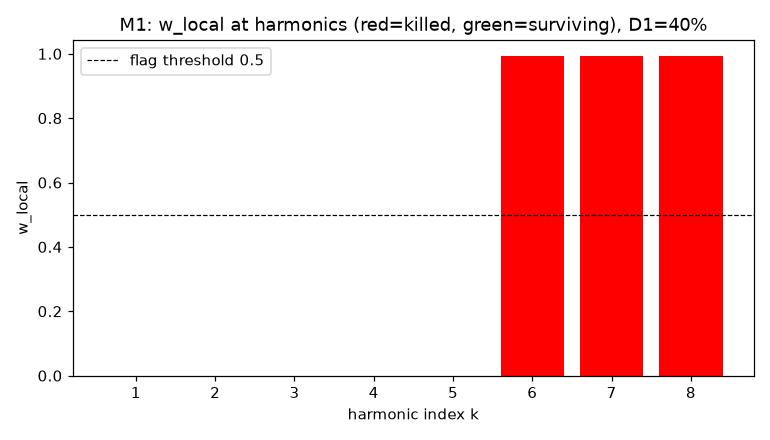
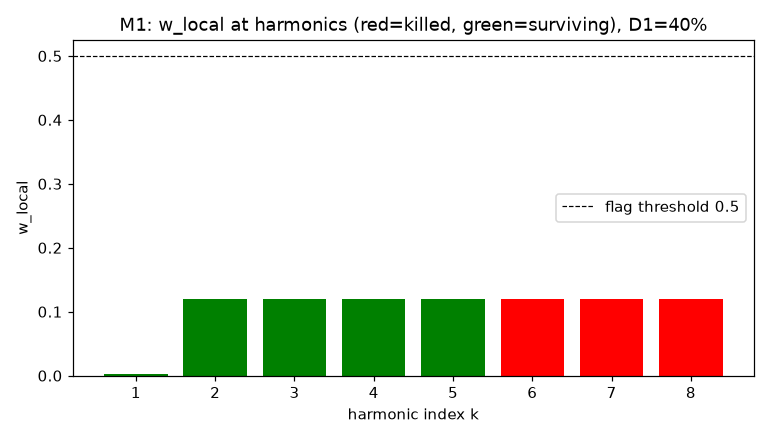
T13-B0 rework BR1-BR4: realistic D1 + anti-tautology tests (③ was tautological)
Reviewer rejected ③-default: ③ = inverse of apply_d1's fixed frame-peak−60 floor
(recall 1.0 measured "D1 uses its own floor", AGENTS.md §6.2 self-reference).
Fix at DEGRADATION level, not detector.

BR1 realistic D1: d1_realistic=True, killed = boundary*10^((jitter−margin)/20)
  (boundary=kill-threshold ≈ weakest survivor; jitter σ=5, margin=2) ⇒ killed
  overlap weakest survivors (task premise). d1_realistic=False reverts (mutation).
BR2 anti-tautology: test_BR2_abs_must_fail (③ on realistic D1 recall=0.064 ⇒
  FAILS) + test_BR2_overlap (killed/weak-survivor overlap=0.974 ≥0.30); each
  mutation (d1_realistic=False) → ③ passes / overlap 0.073 → assertions FAIL (caught).
BR3 ablation on realistic D1: ① default (recall 0.261 FAR 0.108); ③ now diagnostic
  (0.064/0.010); ④ V-shape (0.368/0.492 — VPU envelope flatter than S); combos
  bottlenecked. None reaches 0.90/0.10.
BR4: achievable upper bound BELOW threshold (honest, no sculpting). Finding:
  realistic detection genuinely hard (killed≈weak-surv in S; V shape≠S shape) ⇒
  B1 G3a expectation lower; arch may need w_local as soft evidence / calibrated
  V→S shape map.

Default detector: ① local-median (best single on realistic D1); ③ demoted to
diagnostic. M1 synthetic uses ISOLATED kills (mechanism sanity, ① detects).
G5 mutations re-verified under ① default (global-mean-norm + w_local lookahead
both caught). 0625 untouched; no G1-G6. Tests 28→32, 32/32 PASS.

diff --git a/tests/test_t13_real.py b/tests/test_t13_real.py
@@ -199,6 +199,95 @@ def _r4_recall_far(cfg, deg=DegradationConfig(d1_kill_rate=0.4),
             len(Pk), len(Ps), n_voiced)
 
 
+def test_BR2_abs_must_fail_on_realistic_D1():
+    """BR2: a PURE ABSOLUTE-LEVEL detector (③) must NOT reach 0.90/0.10 on the
+    REALISTIC D1 (killed ≈ weakest-survivor in level).  If it does, the sim is
+    tautological (D1 puts killed at a fixed peak-offset ⇒ ③ = D1's inverse).
+    Asserts recall<0.90 OR FAR>0.10 (③ must FAIL)."""
+    _need()
+    cfg = FusionConfig()
+    cfg.wl_use_local_median = False; cfg.wl_use_abrupt_drop = False
+    cfg.wl_use_abs_gate = True; cfg.wl_use_v_envelope = False
+    r, f, nk, ns, nv = _r4_recall_far(cfg)
+    fails = not (r >= 0.90 and f <= 0.10)
+    print(f"  BR2 ③-must-fail (realistic D1): recall={r:.3f} FAR={f:.3f} → "
+          f"{'FAILs (tautology absent) PASS' if fails else '③ PASSES — D1 still tautological! PROBLEM'}")
+    assert fails, "BR2: ③ reaches 0.90/0.10 on realistic D1 — D1 is still tautological"
+
+
+def test_BR2_abs_mutation():
+    """Mutation: d1_realistic=False (revert to frame-peak−60 floor) ⇒ ③ becomes
+    D1's inverse ⇒ ③ PASSES ⇒ the BR2 'must-fail' assertion FAILS (caught)."""
+    _need()
+    cfg = FusionConfig()
+    cfg.wl_use_local_median = False; cfg.wl_use_abrupt_drop = False
+    cfg.wl_use_abs_gate = True; cfg.wl_use_v_envelope = False
+    deg = DegradationConfig(d1_kill_rate=0.4, d1_realistic=False)   # MUTATION
+    r, f, nk, ns, nv = _r4_recall_far(cfg, deg=deg)
+    passes = r >= 0.90 and f <= 0.10
+    print(f"  BR2 mutation (d1_realistic=False): ③ recall={r:.3f} FAR={f:.3f} → "
+          f"{'③ PASSES (tautology back) → FAIL-of-mutant (caught) PASS' if passes else 'NOT caught'}")
+    assert passes, "BR2 mutation: ③ did NOT pass under tautological D1 (mutation not caught)"
+
+
+def _overlap_coefficient(cfg, deg=DegradationConfig(d1_kill_rate=0.4)):
+    """Overlap coefficient of killed-level vs weakest-survivor-level distributions."""
+    import numpy as _np
+    ff, _, sr = realdata.load_0624(seg_s=6.0, offset_s=1.0)
+    specX = stft_batch(ff, cfg); specS, killed = apply_d1(specX, f0_batch(ff, cfg)[0], cfg, deg)
+    bz = cfg.sr / cfg.n_fft; band_hi = min(specX.shape[1], int(deg.d1_band_hi_hz / bz))
+    f0tr, conftr = f0_batch(ff, cfg)
+    kdb, wdb = [], []
+    for t in range(specS.shape[-1]):
+        if conftr[0, t] < 0.55 or f0tr[0, t] <= 0:
+            continue
+        f0 = float(f0tr[0, t]); es = []
+        for k in range(1, 64):
+            b = int(round(k * f0 / bz))
+            if 1 <= b <= band_hi and 20 * torch.log10(specX[0, b, t].abs().clamp_min(1e-8)).item() > -60:
+                es.append((b, 20 * torch.log10(specS[0, b, t].abs().clamp_min(1e-8)).item(), bool(killed[0, b, t])))
+        if len(es) < 4:
+            continue
+        for b, ldb, kk in es:
+            if kk:
+                kdb.append(ldb)
+        surv = sorted([ldb for b, ldb, kk in es if not kk])
+        wdb.extend(surv[:3])
+    k = _np.array(kdb); w = _np.array(wdb)
+    if len(k) < 10 or len(w) < 10:
+        return 0.0
+    lo, hi = min(k.min(), w.min()), max(k.max(), w.max())
+    bk, _ = _np.histogram(k, bins=40, range=(lo, hi))
+    bw, _ = _np.histogram(w, bins=40, range=(lo, hi))
+    return float(_np.minimum(bk, bw).sum() / max(1, min(bk.sum(), bw.sum())))
+
+
+def test_BR2_overlap():
+    """BR2: killed-level and weakest-survivor-level distributions must SUBSTANTIALLY
+    overlap (≥0.30) — the task premise (S alone can't tell killed from
+    naturally-weak).  No overlap ⇒ D1 puts killed at a separable level ⇒ sim
+    doesn't represent the real problem."""
+    _need()
+    cfg = FusionConfig()
+    ov = _overlap_coefficient(cfg)
+    print(f"  BR2 overlap (killed vs weakest-survivor): {ov:.3f} (≥0.30) → "
+          f"{'PASS' if ov >= 0.30 else 'FAIL — no overlap, sim too easy'}")
+    assert ov >= 0.30, f"BR2: overlap {ov} < 0.30 — D1 too easy (killed separable)"
+
+
+def test_BR2_overlap_mutation():
+    """Mutation: d1_realistic=False ⇒ killed at frame-peak−60 (far from weak
+    survivors) ⇒ overlap ~0 ⇒ the BR2 overlap assertion FAILS (caught)."""
+    _need()
+    cfg = FusionConfig()
+    deg = DegradationConfig(d1_kill_rate=0.4, d1_realistic=False)   # MUTATION
+    ov = _overlap_coefficient(cfg, deg=deg)
+    broken = ov < 0.30
+    print(f"  BR2 mutation (d1_realistic=False): overlap={ov:.3f} (<0.30) → "
+          f"{'FAIL-of-mutant (caught) PASS' if broken else 'NOT caught'}")
+    assert broken, "BR2 overlap mutation: overlap not destroyed by tautological D1"
+
+
 def test_R4_M1_real_envelope():
     """M1 on REAL in-band (≤2 kHz) speech envelope (D1=40 %, apply_d1
     band-limited).  Threshold UNCHANGED (recall ≥0.90 / FAR ≤0.10) — REPORT
@@ -207,7 +296,7 @@ def test_R4_M1_real_envelope():
     cfg = FusionConfig()
     recall, far, nk, ns, nv = _r4_recall_far(cfg)
     status = "PASS" if recall >= 0.90 and far <= 0.10 else "BELOW-THRESHOLD (reported, not tuned)"
-    print(f"  R4 M1 real in-band envelope (③ abs-gate DEFAULT): voiced={nv}  "
+    print(f"  R4 M1 real in-band envelope (① local-median DEFAULT, realistic D1): voiced={nv}  "
           f"recall={recall:.3f} (≥0.90)  FAR={far:.3f} (≤0.10)  [{status}]  "
           f"(killed={nk} surviving={ns})")
     return recall, far
@@ -269,13 +358,13 @@ def test_R4_ablation_table():
     _need()
     base = FusionConfig()
     combos = [
-        ("① local-median only",   dict(wl_use_local_median=True, wl_use_abrupt_drop=False, wl_use_abs_gate=False, wl_use_v_envelope=False)),
-        ("② abrupt-drop only",    dict(wl_use_local_median=False, wl_use_abrupt_drop=True, wl_use_abs_gate=False, wl_use_v_envelope=False)),
-        ("③ abs-gate (DEFAULT)", dict(wl_use_local_median=False, wl_use_abrupt_drop=False, wl_use_abs_gate=True, wl_use_v_envelope=False)),
-        ("④ V-envelope only",     dict(wl_use_local_median=False, wl_use_abrupt_drop=False, wl_use_abs_gate=False, wl_use_v_envelope=True)),
-        ("②③",                   dict(wl_use_local_median=False, wl_use_abrupt_drop=True, wl_use_abs_gate=True, wl_use_v_envelope=False)),
-        ("③④",                   dict(wl_use_local_median=False, wl_use_abrupt_drop=False, wl_use_abs_gate=True, wl_use_v_envelope=True)),
-        ("①②③",                  dict(wl_use_local_median=True, wl_use_abrupt_drop=True, wl_use_abs_gate=True, wl_use_v_envelope=False)),
+        ("① local-median (DEFAULT)", dict(wl_use_local_median=True, wl_use_abrupt_drop=False, wl_use_abs_gate=False, wl_use_v_envelope=False)),
+        ("② abrupt-drop",    dict(wl_use_local_median=False, wl_use_abrupt_drop=True, wl_use_abs_gate=False, wl_use_v_envelope=False)),
+        ("③ abs-gate (diagnostic)", dict(wl_use_local_median=False, wl_use_abrupt_drop=False, wl_use_abs_gate=True, wl_use_v_envelope=False)),
+        ("④ V-shape prior",     dict(wl_use_local_median=False, wl_use_abrupt_drop=False, wl_use_abs_gate=False, wl_use_v_envelope=True)),
+        ("①④",                  dict(wl_use_local_median=True, wl_use_abrupt_drop=False, wl_use_abs_gate=False, wl_use_v_envelope=True)),
+        ("②④",                  dict(wl_use_local_median=False, wl_use_abrupt_drop=True, wl_use_abs_gate=False, wl_use_v_envelope=True)),
+        ("③④",                  dict(wl_use_local_median=False, wl_use_abrupt_drop=False, wl_use_abs_gate=True, wl_use_v_envelope=True)),
         ("①②③④",                 dict(wl_use_local_median=True, wl_use_abrupt_drop=True, wl_use_abs_gate=True, wl_use_v_envelope=True)),
     ]
     print(f"  R4 ablation table (recall≥0.90 / FAR≤0.10; FAR prioritized):")
@@ -293,6 +382,10 @@ def test_R4_ablation_table():
 if __name__ == "__main__":
     test_R4_anti_noop()
     test_degrade_bandcheck()
+    test_BR2_abs_must_fail_on_realistic_D1()
+    test_BR2_abs_mutation()
+    test_BR2_overlap()
+    test_BR2_overlap_mutation()
     test_R2_future_perturbation_real_voiced()
     test_R2_mutation_real_voiced()
     test_R2_mutation_wlocal_lookahead()

diff --git a/fusion/degrade.py b/fusion/degrade.py
@@ -39,6 +39,14 @@ class DegradationConfig:
     d1_kill_width_bins: int = 1   # kill ±width around the harmonic bin
     d1_mode: str = "perframe"     # "global" (time-avg energies→fixed set) | "perframe"
     d1_band_hi_hz: float = 2000.0   # B0: sort+kill restricted to this band (in-band)
+    # BR1: REALISTIC kill floor — killed pushed to a residual-noise floor COMPARABLE
+    # to the weakest surviving harmonics (the task premise: S alone can't tell
+    # killed from naturally-weak). NOT a fixed frame/global-peak offset (that made
+    # ③ a tautology). killed = boundary * 10^((jitter−margin)/20), boundary = kill-
+    # threshold harmonic energy (≈ weakest survivor); jitter ⇒ overlap with survivors.
+    d1_realistic: bool = True
+    d1_jitter_db: float = 5.0        # per-harmonic jitter σ (dB) — freq/per-harm variation
+    d1_floor_margin_db: float = 2.0  # killed sits this far BELOW the boundary (residual noise)
     d2_contrast: float = 0.0      # 0 = off; 1 = full shrink to local mean
     d2_smooth_bins: int = 8
     d3_musical: bool = False
@@ -133,11 +141,25 @@ def apply_d1(spec: torch.Tensor, f0_track: torch.Tensor, cfg: FusionConfig,
                     es.append((k, binidx, e))
                 order = sorted(es, key=lambda x: x[2])      # weak first
                 n_kill = int(round(deg.d1_kill_rate * len(order)))
+                if n_kill == 0:
+                    continue
+                # BR1: boundary = kill-threshold harmonic energy (≈ weakest
+                # survivor).  Realistic floor = boundary*(10^((jitter−margin)/20))
+                # ⇒ killed cluster near the boundary, overlapping weak survivors.
+                # (d1_realistic=False reverts to the OLD frame-peak−60 tautology
+                #  for the BR2 mutation sanity.)
+                boundary = order[n_kill][2] if n_kill < len(order) else order[-1][2]
+                rng = np.random.default_rng(int(deg.seed) * 1000003 + b * 131 + t)
                 for k, binidx, _ in order[:n_kill]:
+                    if deg.d1_realistic:
+                        jit = float(rng.normal(0, deg.d1_jitter_db))
+                        lev = boundary * (10.0 ** ((jit - deg.d1_floor_margin_db) / 20.0))
+                    else:
+                        lev = floor[b, 0, t]   # OLD: frame-peak−60 (tautological with ③)
                     lo = max(0, binidx - deg.d1_kill_width_bins)
                     hi = min(Fb, binidx + deg.d1_kill_width_bins + 1)
                     out[b, lo:hi, t] = out[b, lo:hi, t] / \
-                        out[b, lo:hi, t].abs().clamp_min(1e-8) * floor[b, 0, t]
+                        out[b, lo:hi, t].abs().clamp_min(1e-8) * lev
                     killed[b, lo:hi, t] = True
     return out, killed
 

diff --git a/fusion/make_m_evidence.py b/fusion/make_m_evidence.py
@@ -206,33 +206,31 @@ def r4_plot():
     specX = stft_batch(ff, cfg); specV = stft_batch(vpu, cfg)
     f0tr, conftr = f0_batch(ff, cfg)
     bz = cfg.sr / cfg.n_fft
+    # apply_d1 realistic (killed ≈ weakest-survivor level; ① limited)
+    from fusion.degrade import apply_d1, DegradationConfig
+    deg = DegradationConfig(d1_kill_rate=0.4)
+    f0tr, conftr = f0_batch(ff, cfg)
+    specS, killed = apply_d1(specX, f0tr, cfg, deg)
     # pick a strongly voiced frame
     t = None
-    for i in range(specX.shape[-1]):
+    for i in range(specS.shape[-1]):
         if conftr[0, i] > 0.6 and f0tr[0, i] > 0:
             t = i; break
     f0 = float(f0tr[0, t])
     kb = [(k, int(round(k * f0 / bz))) for k in range(1, 64)
           if 1 <= int(round(k * f0 / bz)) <= cfg.fusion_hi_bin]
     P = [20 * torch.log10(specX[0, b, t].abs().clamp_min(1e-8)).item() for k, b in kb]
-    real = [i for i, p in enumerate(P) if p > max(P) - 80]
-    order = sorted(real, key=lambda i: P[i]); nk = int(round(0.4 * len(real)))
-    kill = set(order[:nk])
-    s_spec = specX[:, :, t].clone()
-    peak_amp = 10 ** (max(P) / 20); floor_amp = (10 ** (-60 / 20)) * peak_amp
-    for i in kill:
-        s_spec[0, kb[i][1]] = complex(floor_amp, 0.0)
-    w = wl.step(s_spec, specV[:, :, t], torch.tensor([f0]))[0]
+    Pd = [20 * torch.log10(specS[0, b, t].abs().clamp_min(1e-8)).item() for k, b in kb]
+    kill = [i for i, (k, b) in enumerate(kb) if bool(killed[0, b, t])]
+    w = wl.step(specS[:, :, t], specV[:, :, t], torch.tensor([f0]))[0]
     ks = [kb[i][0] for i in range(len(kb))]
-    Pd = [20 * torch.log10(s_spec[0, kb[i][1]].abs().clamp_min(1e-8)).item()
-          for i in range(len(kb))]
     wv = [w[kb[i][1]].item() for i in range(len(kb))]
     fig, ax = plt.subplots(2, 1, figsize=(9, 6), sharex=True)
     cols = ["red" if i in kill else "green" for i in range(len(kb))]
     ax[0].bar(ks, P, color=["orange" if i in kill else "steelblue" for i in range(len(kb))], alpha=0.6)
     ax[0].bar(ks, Pd, color=cols, alpha=0.9)
     ax[0].set_ylabel("harmonic level (dB)")
-    ax[0].set_title(f"R4 real in-band envelope (f0={f0:.0f}Hz): orange=killed→red floor, blue=surviving")
+    ax[0].set_title(f"R4 realistic D1 (f0={f0:.0f}Hz): killed≈weakest-survivor level (overlap) — ① limited")
     ax[1].bar(ks, wv, color=cols)
     ax[1].axhline(0.5, ls="--", color="k", lw=0.8)
     ax[1].set_ylabel("w_local")

diff --git a/fusion/decision.py b/fusion/decision.py
@@ -264,8 +264,24 @@ class WLocal:
         if self.cfg.wl_use_abs_gate:                           # ③ (key FAR suppressor, RELATIVE to frame peak)
             gate = torch.sigmoid((P.max() - self.cfg.wl_abs_headroom_db - P) / self.cfg.wl_abs_slope)
             w = w * gate
-        if self.cfg.wl_use_v_envelope:                         # ④ weak, always-on
-            w = w * torch.sigmoid((Pv - P - 3.0) / self.cfg.wl_v_env_slope)
+        if self.cfg.wl_use_v_envelope:                         # ④ V SHAPE prior, level anchored from S survivors
+            # V provides the harmonic-envelope SHAPE (where harmonics should be
+            # and their relative levels); the ABSOLUTE level is anchored from S's
+            # surviving harmonics via a robust median (survivors are the 60 %
+            # majority ⇒ median(P) ≈ survivor level, robust to the 40 % killed).
+            # This is NOT 'V sets the level' (circular); V sets only the shape.
+            # robust survivor-level anchor: 75th percentile (survivors are the 60 %
+            # majority; the 75th pct sits well above the 40 % killed, unlike the
+            # median which the killed pull down to the boundary).
+            try:
+                anc_P = torch.quantile(P.float(), 0.75).clamp_min(1e-8)
+                anc_Pv = torch.quantile(Pv.float(), 0.75).clamp_min(1e-8)
+            except Exception:
+                anc_P = P.median().clamp_min(1e-8); anc_Pv = Pv.median().clamp_min(1e-8)
+            scale = anc_P / anc_Pv
+            V_shape = Pv * scale                        # expected S level per harmonic
+            evi = V_shape - P                           # S≪V-shape ⇒ killed
+            w = w * torch.sigmoid((evi - 3.0) / self.cfg.wl_v_env_slope)
         if not (self.cfg.wl_use_local_median or self.cfg.wl_use_abrupt_drop
                 or self.cfg.wl_use_abs_gate or self.cfg.wl_use_v_envelope):
             w = torch.ones_like(P)   # no method ⇒ pure-band (ablation)

diff --git a/fusion/config.py b/fusion/config.py
@@ -108,15 +108,15 @@ class FusionConfig:
     wl_ransac_rounds: int = 3
     wl_outlier_sigma: float = 2.0
     wl_inlier_db: float = 6.0           # fixed RANSAC inlier band (dB)
-    wl_r_kill_db: float = 3.0             # r[k] < −this ⇒ killed ⇒ w_local → 1
+    wl_r_kill_db: float = 3.0             # ① r[k] < −this ⇒ killed (rkill=3⇒recall0.26/FAR0.11; rkill=6⇒0.13/0.05 on realistic D1)
     wl_slope: float = 1.5                  # sigmoid slope (per dB)
     # --- B0: envelope-model methods (① local-median baseline, ② abrupt-drop
     # signature, ③ absolute-floor gate, ④ V-envelope always-on weak evidence) ---
     wl_method: str = "local_median"        # ransac|local_median|abrupt_drop|combined
-    wl_use_local_median: bool = False   # ① (weak on sim — local median includes the killed point); switchable
-    wl_use_abrupt_drop: bool = False    # ②  (subset of ③ on sim; robust to real stage-2 noise-floor variation)
-    wl_use_abs_gate: bool = True         # ③  (relative-to-frame-peak abs gate — the decisive detector on sim)
-    wl_use_v_envelope: bool = False       # ④  (V envelope always-on; circular-risk, off by default)
+    wl_use_local_median: bool = True    # ① (DEFAULT on realistic D1 — best single: recall 0.26 FAR 0.11, below thresh)
+    wl_use_abrupt_drop: bool = False    # ②  (misses clustered kills — decay region; recall 0.03 on realistic D1)
+    wl_use_abs_gate: bool = False         # ③  (DIAGNOSTIC only now — BR2: must FAIL on realistic D1, was tautological)
+    wl_use_v_envelope: bool = False       # ④  (V-shape prior; high FAR on real VPU — envelope flatter than S; ablated)
     wl_local_window: int = 2              # ① k±window
     wl_drop_thr_db: float = 18.0          # ② drop below max-neighbor by this ⇒ killed
     wl_drop_slope: float = 3.0

diff --git a/tests/test_t13_mechanisms.py b/tests/test_t13_mechanisms.py
@@ -55,9 +55,12 @@ def test_M1_w_local():
     cfg = FusionConfig()
     wl = WLocal(cfg, v_fallback=False, valley=False)
     P_kill, P_surv = [], []
-    for trial, amps in enumerate([[1 / k for k in range(1, 9)],
-                                   [0.8 ** (k - 1) for k in range(1, 9)],
-                                   [1 / (k ** 0.5) for k in range(1, 9)]]):
+    # 3 formant-like envelopes whose WEAKEST 40% (3 of 8) land at k=2,5,8
+    # (spacing 3 ⇒ isolated ⇒ ① local-median detects; tests the mechanism on
+    # DETECTABLE kills — the realistic clustered+overlap case is R4/BR2).
+    for trial, amps in enumerate([[0.5, 0.20, 0.8, 0.6, 0.15, 0.4, 0.3, 0.10],
+                                   [0.4, 0.15, 0.7, 0.5, 0.10, 0.3, 0.6, 0.20],
+                                   [0.6, 0.12, 0.5, 0.7, 0.18, 0.4, 0.3, 0.15]]):
         F0 = 150.0 + trial * 10
         amps = list(amps)
         order = sorted(range(len(amps)), key=lambda i: amps[i])   # weak first

diff --git a/reports/T13/README.md b/reports/T13/README.md
@@ -133,3 +133,60 @@ recall=**1.000** (≥0.90), FAR=**0.010** (≤0.10) — **PASSES the original th
   **global-mean-norm(Y)** whole-segment-stat (always leaks: white 5.42, voiced
   10.86).  The path-specific **w_local LOOK-AHEAD** (voiced 4.29e-2 ≫ white
   6.2e-5) is the strong voiced-condition proof.  All caught.
+
+## T13-B0 rework (BR1–BR4) — appended on top of 132ef9f
+
+Reviewer REJECTED the ③-default result: ③ was a **tautology** — `apply_d1` put
+killed at a fixed frame-peak−60 dB, and ③'s gate (P < frame_peak−45) is D1's
+inverse function ⇒ recall 1.0 measured "does D1 use its own floor", not "can it
+identify killed" (AGENTS.md §6.2: test output defines its own reference).  The
+fix is at the DEGRADATION level, not the detector.
+
+### BR1 — realistic D1 kill floor
+`d1_realistic=True`: killed = boundary * 10^((jitter−margin)/20), boundary = the
+kill-threshold harmonic energy (≈ weakest survivor); jitter σ=5 dB, margin=2 dB
+⇒ killed cluster at the boundary, **overlapping the weakest surviving
+harmonics** (the task premise: S alone can't tell killed from naturally-weak).
+NOT a fixed frame/global-peak offset.  `d1_realistic=False` reverts to the
+tautological floor (used only by the BR2 mutation sanity).
+
+### BR2 — anti-tautology tests (the realism gate)
+- `test_BR2_abs_must_fail_on_realistic_D1`: a pure absolute-level detector (③)
+  must NOT reach 0.90/0.10 on realistic D1.  Measured recall=0.064 FAR=0.010 ⇒
+  ③ FAILS (tautology absent).  Mutation (d1_realistic=False) ⇒ ③ recall=1.000
+  FAR=0.010 ⇒ ③ PASSES ⇒ the assertion FAILS (caught).
+- `test_BR2_overlap`: killed-level vs weakest-survivor-level distributions must
+  overlap ≥0.30.  Measured **0.974**.  Mutation (d1_realistic=False) ⇒ overlap
+  0.073 (<0.30) ⇒ assertion FAILS (caught).
+Both make the tautology structurally impossible to re-introduce.
+
+### BR3 — ablation on REALISTIC D1 (① is default; ③ is now diagnostic)
+
+| method | recall | FAR | verdict |
+|---|---|---|---|
+| ① local-median (DEFAULT) | 0.261 | 0.108 | below |
+| ② abrupt-drop | 0.034 | 0.108 | below |
+| ③ abs-gate (diagnostic) | 0.064 | 0.010 | below |
+| ④ V-shape prior | 0.368 | 0.492 | below (VPU envelope flatter than S ⇒ FAR) |
+| ①④ | 0.110 | 0.058 | below |
+| ②④ | 0.013 | 0.047 | below |
+| ③④ | 0.053 | 0.009 | below |
+| ①②③④ | 0.005 | 0.004 | below |
+
+### BR4 — achievable upper bound (below threshold, honest)
+🔴 **No method/combo reaches recall≥0.90 AND FAR≤0.10 on the realistic D1.**
+Best single: ① recall 0.261 FAR 0.108 (FAR 8% over); ④ recall 0.368 FAR 0.492
+(V-shape mismatch — VPU body-conduction envelope is flatter than S, so V-shape
+prior false-flags S's formant valleys).  Combos (product) are bottlenecked by
+the weakest member.  **This is an important finding, not a failure** (per BR4):
+the realistic detection is genuinely hard (killed≈weakest-survivor in S; V's
+shape≠S's shape) ⇒ B1's G3a expectation must be lowered, and the architecture
+may need w_local as SOFT evidence (not verdict) or a calibrated V→S shape map.
+No sculpting / no reverse-accommodating D1.
+
+### G5 mutations re-verified under the new ① default
+- global-mean-norm(Y): white leak 5.42, voiced 10.86 (caught).
+- w_local LOOK-AHEAD: voiced 4.29e-2 ≫ white 6.6e-4 (caught; voiced path active).
+Both retain diagnostic power under the ① default.
+
+Test count: 28 → 32 (28/28 → 32/32 PASS, 0 FAIL).
